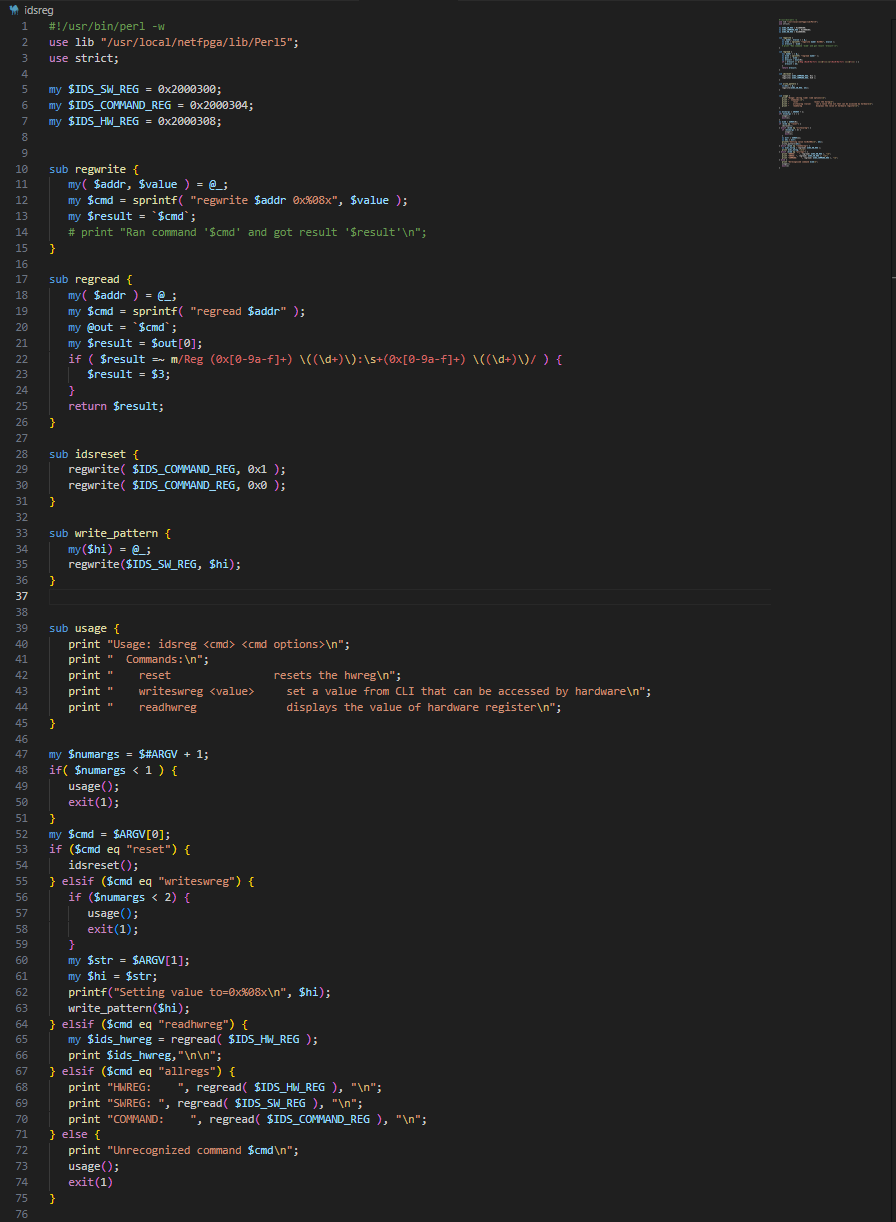
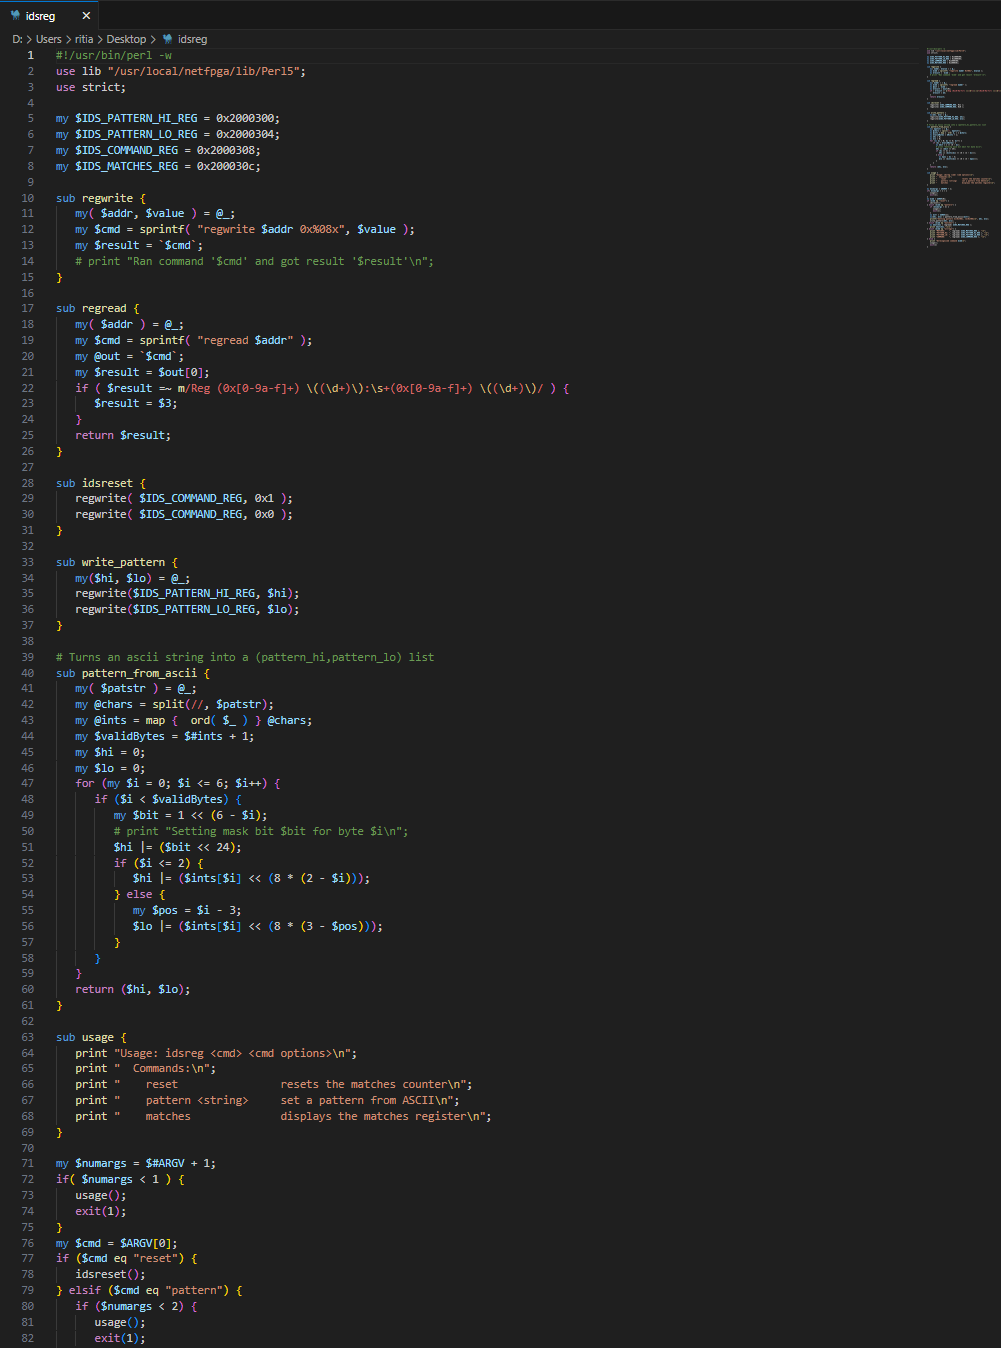
report modified

diff --git a/Lab5/lab5_report.md b/Lab5/lab5_report.md
@@ -62,17 +62,39 @@ Members: Yijie Zhou, Jiahe Wu, Haoyang Zhang, Bohan Fang
 
   This Perl script isused for interacting with the IDS registers in the NetFPGA system, providing functionalities for writing to registers, reading from registers, and resetting them.
 
+  
+
 - The netfpga compiler assigned  register address are:
 
   ![11](./img/11.png)
 
-- reset and writeswreg test:
-
-  ![12](./img/12.png)
-
 
 
 ### Step 4:
+
+Use idsreg to test if we detect and count the target string correctly in the message.
+
+- reset, set pattern and list all registers:
+
+  ![12](./img/12.png)
+
+  
+
+- send good packets:
+
+  ![13](./img/13.png)
+
+  
+
+- send bad packets:
+
+  ![14](./img/14.png)
+
+  
+
+- matches count:
+
+  ![15](./img/15.png)
 
 
 
